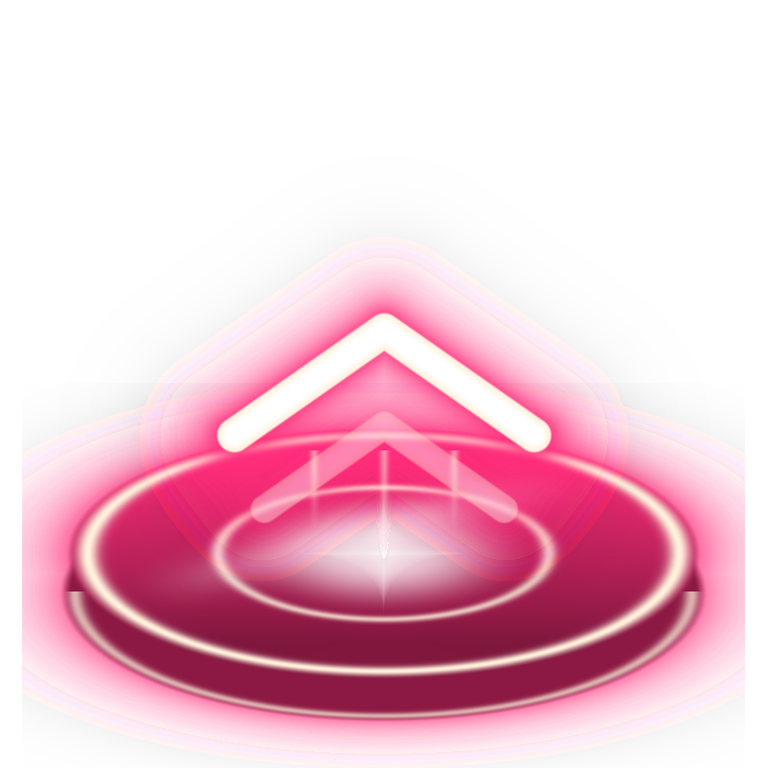
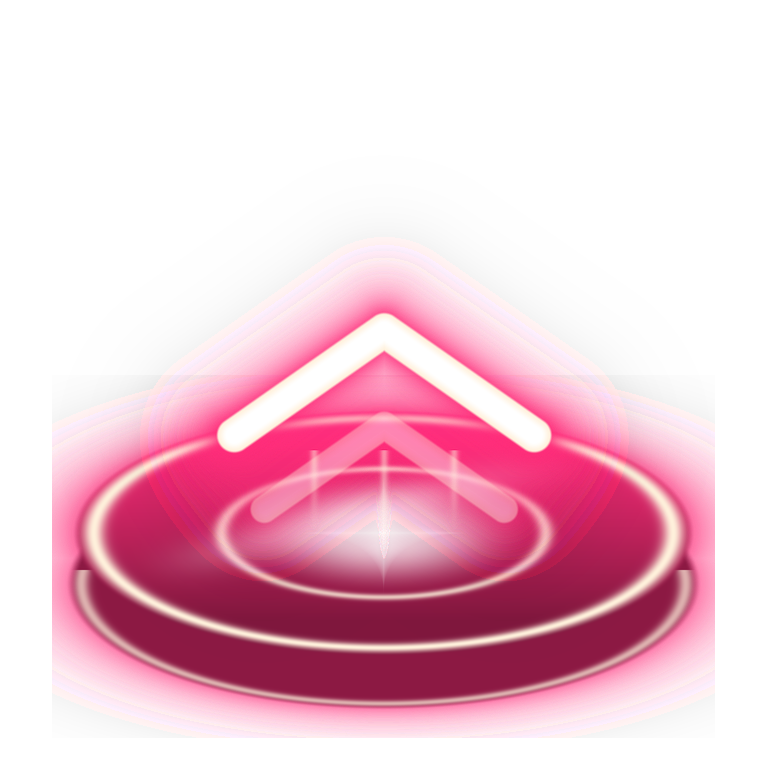
Align SYNK mode's lane rings, pucks and flick with the SSRG geometry
The ring was 17 px too high in its sprite and about 6% too small, so notes
landed below and outside it. Ring, tap, hold and flick outlines now match
the SSRG sprites they replace. The art generator retries a save when
another program briefly locks the file.

Changed region(s): [[0.0312, 0.5, 0.9688, 1.0]]

diff --git a/tools/make_synk_mode_art.py b/tools/make_synk_mode_art.py
@@ -7,6 +7,7 @@ coral and amber on near-black, with cream highlights.
 
     python tools/make_synk_mode_art.py
 """
+import time
 from pathlib import Path
 
 import numpy as np
@@ -42,7 +43,23 @@ def over(dst_rgb, dst_a, rgb, a):
 def save(rgb, a, path, size=None):
     img = Image.fromarray(np.clip(np.dstack([rgb, a]) * 255 + .5, 0, 255).astype(np.uint8), "RGBA")
     if size: img = img.resize(size, Image.LANCZOS)
-    img.save(path)
+    # Another program (antivirus, a sync tool) can briefly lock a file it has just seen
+    # change; try again a few times before giving up.
+    for attempt in range(8):
+        try:
+            img.save(path); return
+        except OSError:
+            if attempt == 7: raise
+            time.sleep(.4)
+
+
+# Puck geometry as fractions of its sprite, matched to the SSRG note sprites it replaces
+# (their outline spans x 2..207, y 10..108 of 212 x 116), so notes meet the lane rings and
+# the judgment line exactly as the SSRG notes do.
+PUCK_RX = .47      # half-width of the face
+PUCK_TOP = .435    # centre of the top face, from the sprite's top
+PUCK_RY = .34      # half-height of the face
+PUCK_SIDE = .14    # thickness of the side below the face
 
 
 def puck(w, h, color, heat):
@@ -50,9 +67,9 @@ def puck(w, h, color, heat):
     a cream rim, a white-hot core and a small four-point sparkle (the SYNK mark)."""
     W, H = w * SS, h * SS
     y, x = np.mgrid[0:H, 0:W].astype(float) / SS
-    cx, rx = w / 2, w * .44
-    top_cy, ry = h * .43, h * .32
-    side = h * .1  # thickness of the side below the top face
+    cx, rx = w / 2, w * PUCK_RX
+    top_cy, ry = h * PUCK_TOP, h * PUCK_RY
+    side = h * PUCK_SIDE  # thickness of the side below the top face
     r_top = np.sqrt(((x - cx) / rx) ** 2 + ((y - top_cy) / ry) ** 2)
     r_low = np.sqrt(((x - cx) / rx) ** 2 + ((y - top_cy - side) / ry) ** 2)
     rgb = np.zeros((H, W, 3)); a = np.zeros((H, W))
@@ -123,14 +140,14 @@ def flick():
     in a pink glow that rises over six frames (the game loops them up and down). Same
     768 px frame as the original flick art: the disc is 636 px wide, centred at y=553."""
     size, ss = 768, 2
-    disc_w = 636
-    w = round(disc_w / .88); h = round(w * 116 / 212)
-    top_cy = .43 * h
+    # The original flick's disc is 623 px wide, with its outline centred at y=558.5.
+    w = round(623 / (2 * PUCK_RX)); h = round(w * 116 / 212)
+    top_cy = (PUCK_TOP + PUCK_SIDE / 2) * h
     for i in range(6):
         k = i / 5
         rgb = np.zeros((size, size, 3)); a = np.zeros((size, size))
         prgb, pa = downsample(*puck(w, h, FLICK, HEAT[min(i, 2)]), w, h)
-        x0, y0 = round(size / 2 - w / 2), round(553 - top_cy)
+        x0, y0 = round(size / 2 - w / 2), round(558.5 - top_cy)
         y1 = min(size, y0 + h)
         crop = y1 - y0
         sub_rgb = rgb[y0:y1, x0:x0 + w]; sub_a = a[y0:y1, x0:x0 + w]
@@ -191,7 +208,8 @@ def guide():
     w, h = 212, 116
     W, H = w * SS, h * SS
     y, x = np.mgrid[0:H, 0:W].astype(float) / SS
-    r = np.sqrt(((x - w / 2) / (w * .44)) ** 2 + ((y - h * .43) / (h * .32)) ** 2)
+    # Where a note's base lands: the SSRG guide ring spans x 7..202, y 25..108.
+    r = np.sqrt(((x - w / 2) / (w * .485)) ** 2 + ((y - h * (PUCK_TOP + PUCK_SIDE)) / (h * .375)) ** 2)
     rgb = np.zeros((H, W, 3)); a = np.zeros((H, W))
     rgb, a = over(rgb, a, np.broadcast_to(CORAL, rgb.shape), np.exp(-((r - .95) / .12) ** 2) * .45)
     rgb, a = over(rgb, a, np.broadcast_to(CREAM, rgb.shape), np.exp(-((r - .95) / .025) ** 2))
